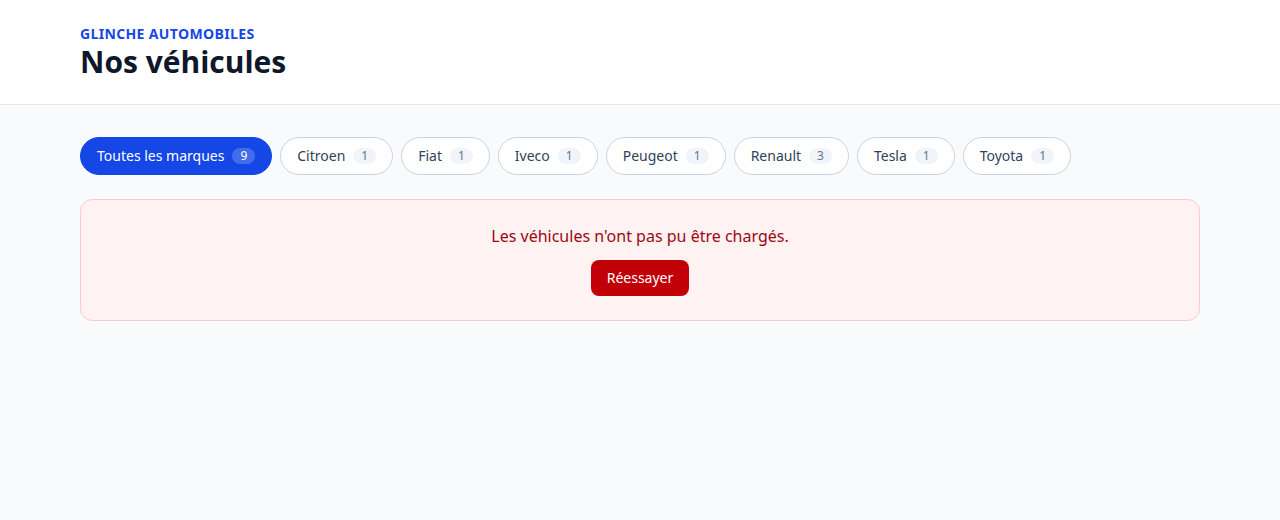
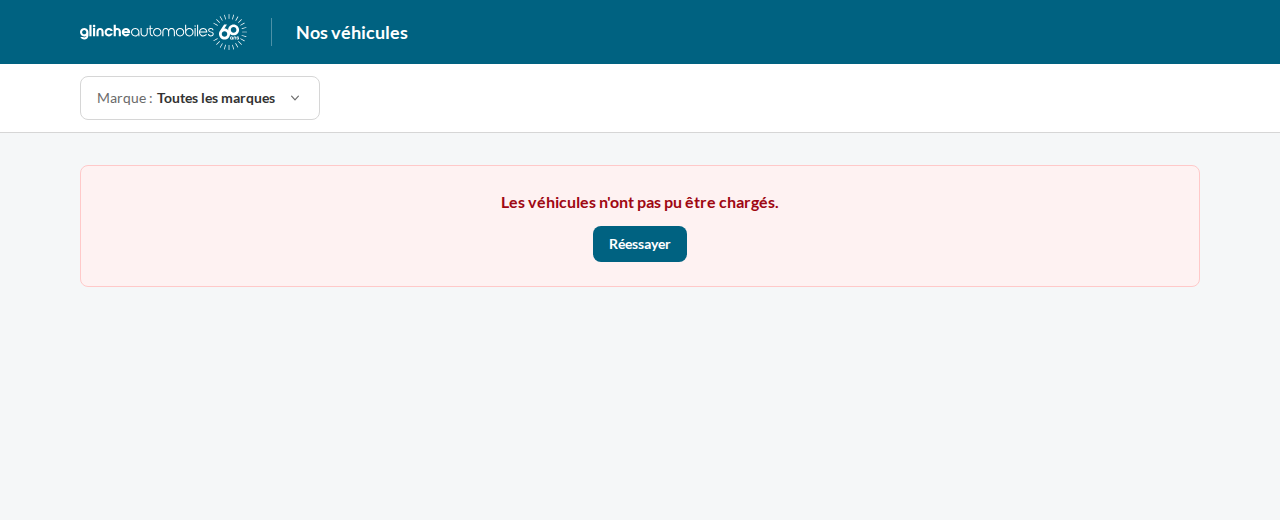
docs: refresh screenshots and README for the multi-brand filter

diff --git a/README.md b/README.md
@@ -1,8 +1,8 @@
-# Glinche – Catalogue de véhicules
+# Glinche, catalogue de véhicules
 
-Récupère le stock de l'API partenaires Glinche, le stocke en base et l'affiche avec un filtre par marque et une pagination.
+Récupère le stock de l'API partenaires Glinche, le stocke en base et l'affiche avec un filtre multi-marques et une pagination.
 
-**Laravel 13 · MySQL 9.7 · Vue 3.5 · Tailwind CSS 4 · Docker** · 81 tests
+**Laravel 13 · MySQL 9.7 · Vue 3.5 · Tailwind CSS 4 · Docker** · 90 tests
 
 ![Catalogue](docs/desktop.png)
 
@@ -10,6 +10,8 @@ Récupère le stock de l'API partenaires Glinche, le stocke en base et l'affiche
   <td width="28%"><img src="docs/mobile.png" alt="Mobile"></td>
   <td valign="top"><img src="docs/erreur.png" alt="API indisponible"></td>
 </tr></table>
+
+*Filtre sur deux marques · version mobile · API indisponible.*
 
 ## Lancer
 
@@ -22,8 +24,8 @@ Catalogue : http://localhost:5173 · API : http://localhost:8000/api
 
 ```bash
 docker compose exec app php artisan vehicles:sync   # synchro manuelle (sinon toutes les heures)
-docker compose exec app php artisan test            # 60 tests Pest
-docker compose exec node npm test                   # 21 tests Vitest
+docker compose exec app php artisan test            # 61 tests Pest
+docker compose exec node npm test                   # 29 tests Vitest
 ```
 
 <details>
@@ -61,7 +63,7 @@ Le catalogue lit **uniquement la base locale** : il reste rapide et disponible m
 | Erreur serveur Glinche (5xx) | 3 tentatives, puis échec propre |
 | « Citroën » et « Citroen » | Une seule marque (identifiée par slug) |
 | Prix absent ou à 0 | « Prix sur demande », jamais « 0 € » |
-| Lien `?brand=renault&page=2` partagé | Même sélection, bouton retour fonctionnel |
+| Lien `?brand=peugeot,renault&page=2` partagé | Même sélection, bouton retour fonctionnel |
 | Clics rapides sur les filtres | Seule la dernière réponse s'affiche (requête précédente annulée) |
 
 Chaque ligne est couverte par un test.
@@ -91,7 +93,7 @@ classDiagram
 
 Une classe, une responsabilité : le **client** gère HTTP et le token, le **mapper** le format Glinche, le **synchroniseur** les règles de mise à jour. Tout est dans `backend/app/Services/Glinche/`.
 
-Côté front : `App.vue`, 4 composants, 3 composables (`useBrands`, `useVehicles`, `useUrlQuery`). L'URL est la seule source d'état.
+Côté front : `App.vue`, 4 composants, 3 composables (`useBrands`, `useVehicles`, `useUrlQuery`). L'URL est la seule source d'état. L'en-tête et la barre de filtres restent fixés en haut ; le filtre est un menu à cases à cocher (clavier, Échap, clic extérieur) et la pagination est numérotée, avec des points de suspension (`utils/pagination.js`).
 
 ## Choix techniques
 
@@ -99,6 +101,8 @@ Côté front : `App.vue`, 4 composants, 3 composables (`useBrands`, `useVehicles
 - **Pagination côté serveur**, 6 par page (grille de 1, 2 ou 3 colonnes), tri stable marque → modèle → id.
 - **Annonce brute conservée** (colonne `raw`) : une fiche détaillée pourra s'en servir sans nouvel appel.
 - **Pas de Pinia, Vue Router ni repository pattern** : un seul écran, rien à justifier.
+- **Filtre multi-marques** : un seul paramètre `brand` avec des slugs séparés par des virgules, lisible dans l'URL et compatible avec les liens à une marque.
+- **Charte Glinche** : bleu pétrole `#006281`, police Lato et logo officiel, relevés sur glinche-automobiles.com. Les couleurs sont des tokens Tailwind dans `style.css`, sans ombres portées.
 - **Même origine** : Vite relaie `/api` vers nginx, donc aucune configuration CORS.
 
 ## Points notables
